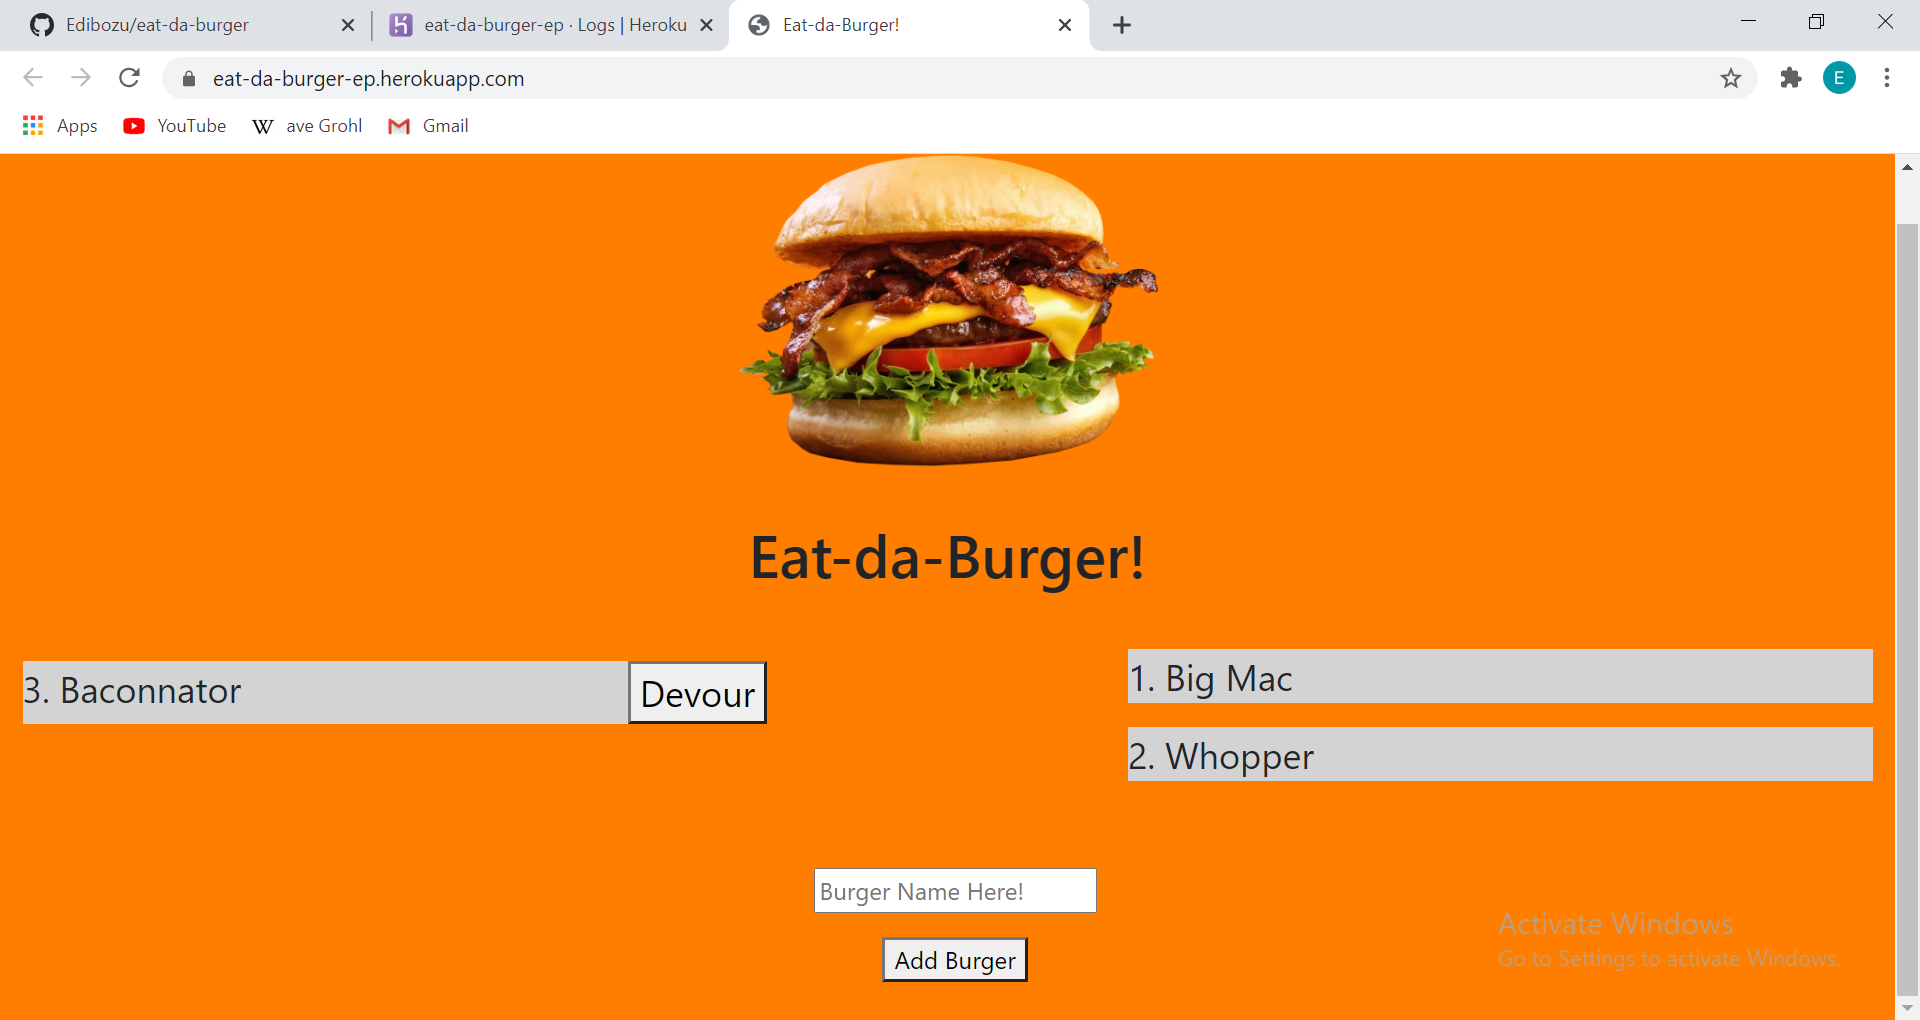
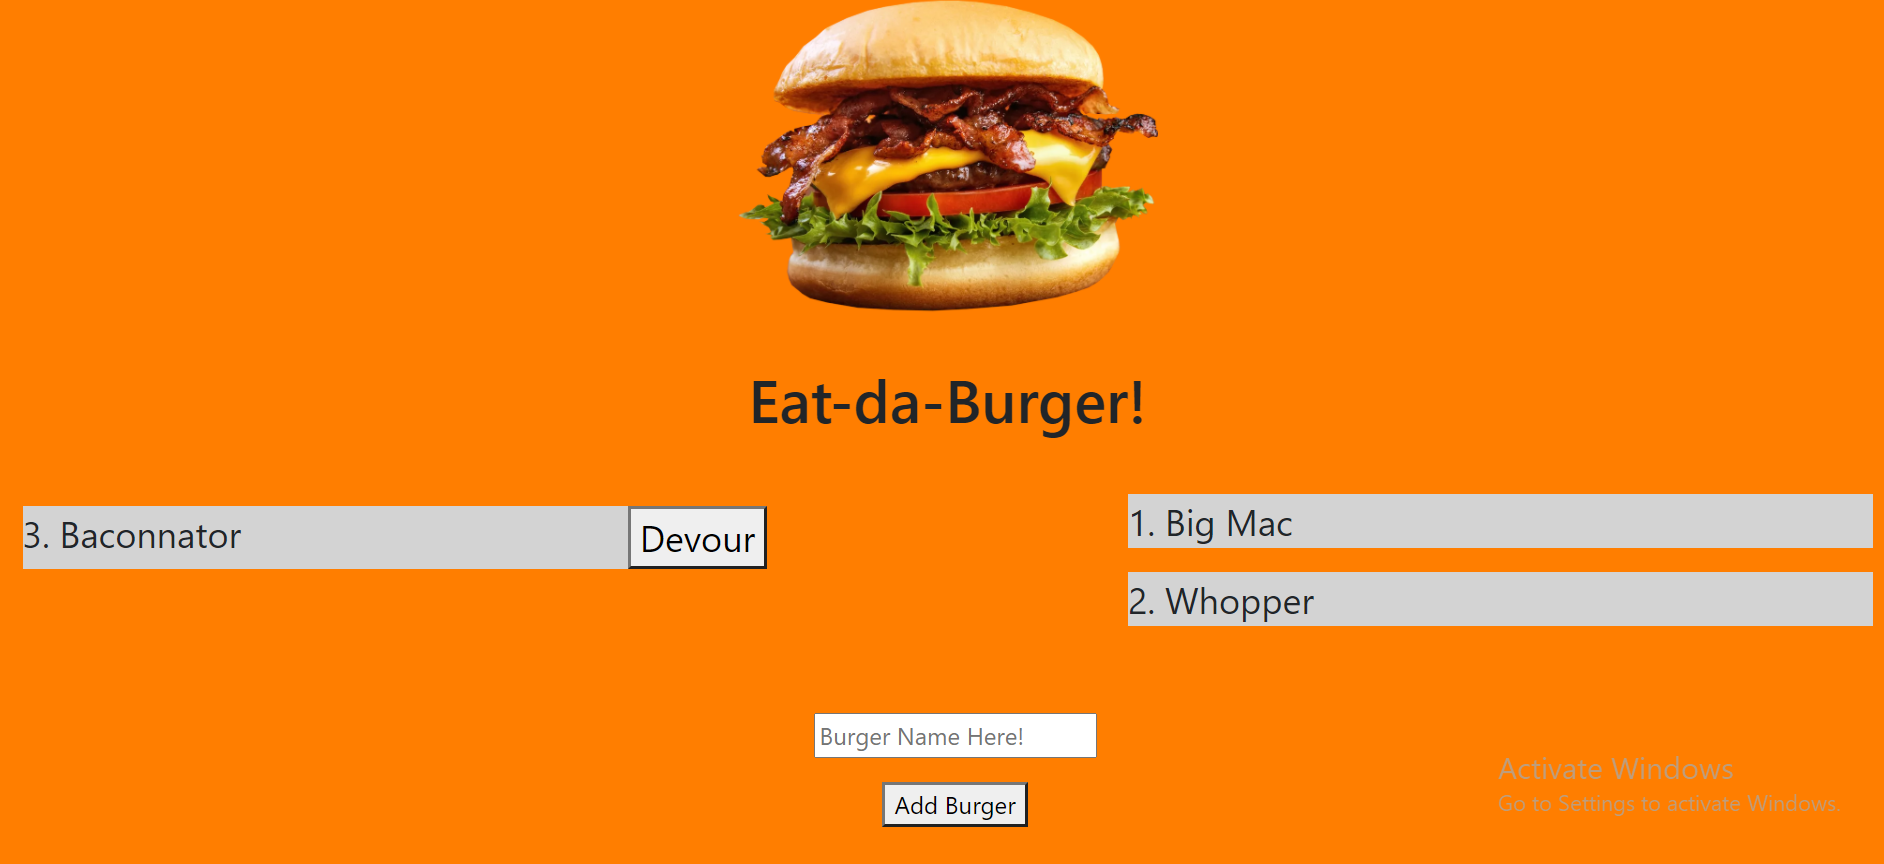
finished up readme

diff --git a/README.md b/README.md
@@ -2,7 +2,7 @@
 
 ## Description
 
-Eat-da-Burger is a culmination of the skills we have leanred in the last few weeks, which include MySQL, Express and Handlebars. While simple in it's design, this applications requires highly-detailed code, across several file types. The user will be able to add a new burger from a submit from, and once added, they can "devour" it.
+Eat-da-Burger is a culmination of the skills we have leanred in the last few weeks, which include MySQL, Express and Handlebars. While simple in it's design, this applications requires highly-detailed code, across several file types. The user will be able to add a new burger from a submit from, and once added, they can "devour" it. WHen this happens, the burger will go from the left side of the screen to the right. When ann burgers get devoured, the user can always add more with the submit form.
 
  ## Installation
 
@@ -12,13 +12,13 @@ The image below shows the startup of the app.
 <br/><br/>
 ![Application Screenshot](./public/assets/images/sc1.png)
 <br/><br/><br/>
-This shot shows a table on how the information is organized.
+This shot shows when some of the burgers get devoured, and change from left to right.
 <br/><br/>
-![Application Screenshot](./Assets/sc2.png)
+![Application Screenshot](.public/assets/images/sc2.png)
 <br/><br/><br/>
-This shot shows the the code incorporates both MySQL queries along with Inquirer prompts.
+Here we see how burgers can be added, while they await to be devoured
 <br/><br/>
-![Application Screenshot](./Assets/sc3.png)
+![Application Screenshot](.public/assets/images/sc3.png)
 <br/><br/>
 
 ## Questions
@@ -27,7 +27,9 @@ For any questions, contact me on any of the following links:
 
 Email: edibozu@gmail.com
 
-GitHub Repo: https://github.com/Edibozu/mysql-employee-tracker
+Heroku: https://eat-da-burger-ep.herokuapp.com/
+
+GitHub Repo: https://github.com/Edibozu/eat-da-burger
 
 LinkedIn: https://www.linkedin.com/in/eduardo-pineda-5595431b6/
 
